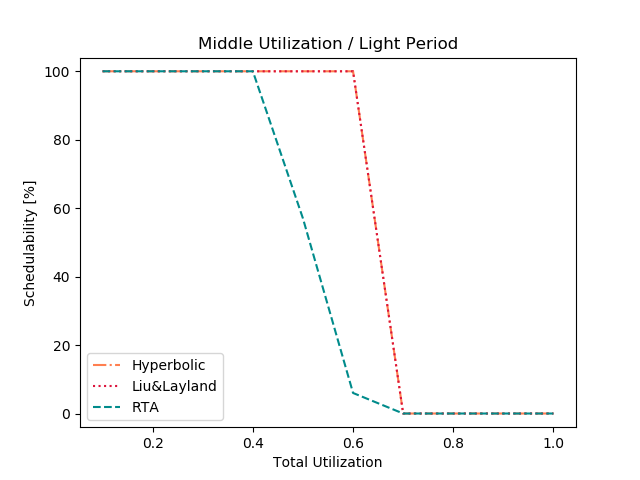
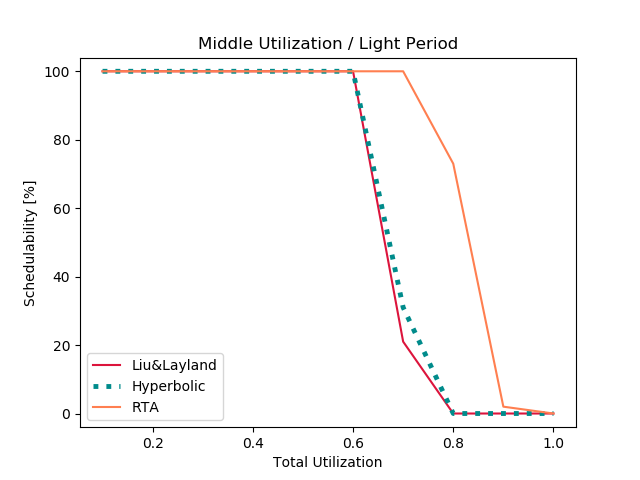
RTA working. Improved plot visibility

diff --git a/1_Trabalho/tests.py b/1_Trabalho/tests.py
@@ -1,7 +1,6 @@
 import math
 import matplotlib.pyplot as plt
-from random import seed
-from random import random
+import random
 
 # Every test function returns 1 in case of success and 0 otherwise
 def hyperbolic_test(utilization):
@@ -24,22 +23,27 @@ def liu_lay_test(utilization, period):
         if n > 0 and harmonic:
             if period[n] % w0 != 0 and w0 % period[n] != 0:
                 harmonic = False
-            elif period[n] < w0:
-                    w0 = period[n]
+            elif period[n] > w0:
+                w0 = period[n]
         n += 1
 
     if harmonic:
         test = 1
+        # print("Harmonic!", utilization_sum, period)
     else:
-        test = n * (pow(2, (1/n)) - 1)
+        test = n * (pow(2, float(1/n)) - 1)
     if test >= utilization_sum:
         return 1
     else:
         return 0
 
 def rta_test(utilization, period):
-    i = 0
-    for p in period:
+    utilization, period = sort_by_priority(utilization, period)
+    i = len(period) - 1
+    for p in reversed(period):
+        if i < 0:
+            return 1
+
         ri = []
         result = 0
         j = 0
@@ -47,7 +51,7 @@ def rta_test(utilization, period):
 
         # Calculates ri[0]
         result = period[i] * utilization[i]
-        while (j < i):
+        while (period[j] < p and j < i):
             result += period[j] * utilization[j]
             j += 1
 
@@ -56,27 +60,29 @@ def rta_test(utilization, period):
         # Calculates ri[1]
         result = period[i] * utilization[i]
         j = 0
-        while (j < i):
+        while (period[j] < p and j < i):
             result += math.ceil(ri[k - 1] / period[j]) * period[j] * utilization[j]
             j += 1
 
         ri.append(result)
 
         # Calculates ri[k]
-        while (abs(ri[k] - ri[k-1]) > 0.1):
+        while (abs(ri[k] - ri[k - 1]) > 0.001):
+        # while (abs(ri[k] - ri[k - 1]) > 0.1):
             k += 1
-            result = period[i] * utilization[i]
             j = 0
-            while (j < i):
+            result = period[i] * utilization[i]
+            while (period[j] < p and j < i):
                 result += math.ceil(ri[k - 1] / period[j]) * period[j] * utilization[j]
                 j += 1
 
+            # As Ri[k + 1] >= Ri[k] always
+            if result > p:
+                return 0
+
             ri.append(result)
 
-        if ri[k] > p and i > 0: # Assuming Di = Ti
-            return 0
-
-        i += 1
+        i -= 1
 
     return 1
 
@@ -114,11 +120,11 @@ def plotGraph(case, graphH, graphL, graphR):
 
     x = [0.1, 0.2, 0.3, 0.4, 0.5, 0.6, 0.7, 0.8, 0.9, 1]
     fig = plt.figure()
-    plt.plot(x, graphH, '-.', color = "#FF7F50", label = "Hyperbolic")
-    plt.plot(x, graphL, ':', color = "#DC143C", label = "Liu&Layland")
-    plt.plot(x, graphR, '--', color = "#008B8B", label = "RTA")
+    plt.plot(x, graphL, color = "#DC143C", label = "Liu&Layland")
+    plt.plot(x, graphH, ':', color = "#008B8B", label = "Hyperbolic", linewidth = 3.5)
+    plt.plot(x, graphR, color = "#FF7F50", label = "RTA")
 
-    plt.legend(loc="lower left")
+    plt.legend(loc = "lower left")
     plt.title(title)
     plt.xlabel("Total Utilization")
     plt.ylabel("Schedulability [%]")
@@ -128,7 +134,7 @@ def plotGraph(case, graphH, graphL, graphR):
 def random_uniform(min, max):
     # Light and moderate period
     if max % min == 0:
-        return ((int(random() * 1000) % int(max/min)) + 1) * min
+        return ((int(random.random() * 1000) % int(max/min)) + 1) * min
         # e.g. min = .0001 ; max = .01
         # max / min = 100
         # Generates number between [1, 100]
@@ -136,7 +142,22 @@ def random_uniform(min, max):
 
     # Heavy period
     else:
-        return (int((random() * 10) + 1) * 0.001) + min
+        return (int((random.random() * 10) + 1) * 0.001) + min
+
+# Generates a random number (uniform) within min and max, with 'resolution' decimals
+def random_uniform_res(min, max, resolution):
+    res = round(random.uniform(min, max), resolution)
+    while (res == 0):
+        print("Error: value should not be zero")
+        res = round(random.uniform(min, max), resolution)
+
+    return res
+
+# Sorts both parameters based on priority (shorter period, higher priority)
+def sort_by_priority(utilization, period):
+    arrayUtilization = [u for p, u in sorted(zip(period, utilization))]
+    period.sort()
+    return arrayUtilization, period
 
 def generateTaskSet(max_utilization, case):
     min_utilization_case = 0.0
@@ -200,13 +221,15 @@ def generateTaskSet(max_utilization, case):
             # Only possible combination is (10 * max_utilization) tasks of max_utilization_case
             for n in range(0, int(10 * max_utilization)):
                 arrayUtilization.append(max_utilization_case)
-                arrayPeriod.append(random_uniform(min_period_case, max_period_case))
+                # arrayPeriod.append(random_uniform(min_period_case, max_period_case))
+                arrayPeriod.append(random_uniform_res(min_period_case, max_period_case, 3))
 
         else:
             # Can only be all max_utilization_case or all min_utilization_case + 1 task
-            usesMinUtilization = int(random() * 2) % 2
+            usesMinUtilization = int(random.random() * 2) % 2
             for n in range(0, int(10 * max_utilization) + usesMinUtilization):
-                arrayPeriod.append(random_uniform(min_period_case,max_period_case))
+                # arrayPeriod.append(random_uniform(min_period_case,max_period_case))
+                arrayPeriod.append(random_uniform_res(min_period_case, max_period_case, 3))
                 if usesMinUtilization == 1:
                     if n == 10:
                         # For 1.0 utilization, last task has to have max_utilization_case
@@ -221,16 +244,25 @@ def generateTaskSet(max_utilization, case):
     else:
         current_utilization = 0.0
         while current_utilization < max_utilization:
-            arrayPeriod.append(random_uniform(min_period_case,max_period_case))
+            # arrayPeriod.append(random_uniform(min_period_case, max_period_case))
+            arrayPeriod.append(random_uniform_res(min_period_case, max_period_case, 3))
             if(max_utilization - current_utilization < max_utilization_case and not(max_utilization - current_utilization > min_utilization_case)):
                 arrayUtilization.append(max_utilization - current_utilization)
                 current_utilization = max_utilization
             else:
-                holder = random_uniform(min_utilization_case, max_utilization_case)
+                # holder = random_uniform(min_utilization_case, max_utilization_case)
+                if case < 3:
+                    holder = random_uniform_res(min_utilization_case, max_utilization_case, 4)
+                elif case < 6:
+                    holder = random_uniform_res(min_utilization_case, max_utilization_case, 3)
+                else:
+                    holder = random_uniform_res(min_utilization_case, max_utilization_case, 2)
+
                 current_utilization += holder
                 arrayUtilization.append(holder)
 
     return arrayUtilization, arrayPeriod
+
 
 def main():
 
@@ -249,7 +281,7 @@ def main():
     # For each case
     for case in range(0, 9):
         # For max_util 0.1, 0.2 ... 1
-        for y in range(1,10):
+        for y in range(1,11):
             # Generate 100 different task sets
             for z in range(1,101):
                 arrayUtilization, arrayPeriod = generateTaskSet(max_util, case)
@@ -266,10 +298,10 @@ def main():
             max_util = round(10 * max_util) / 10
         
         plotGraph(case, graphH, graphL, graphR)
-        max_util = 0.1
         graphH = []
         graphL = []
         graphR = []
+        max_util = 0.1
 
     # Blocks script while plots are open
     plt.ioff()
